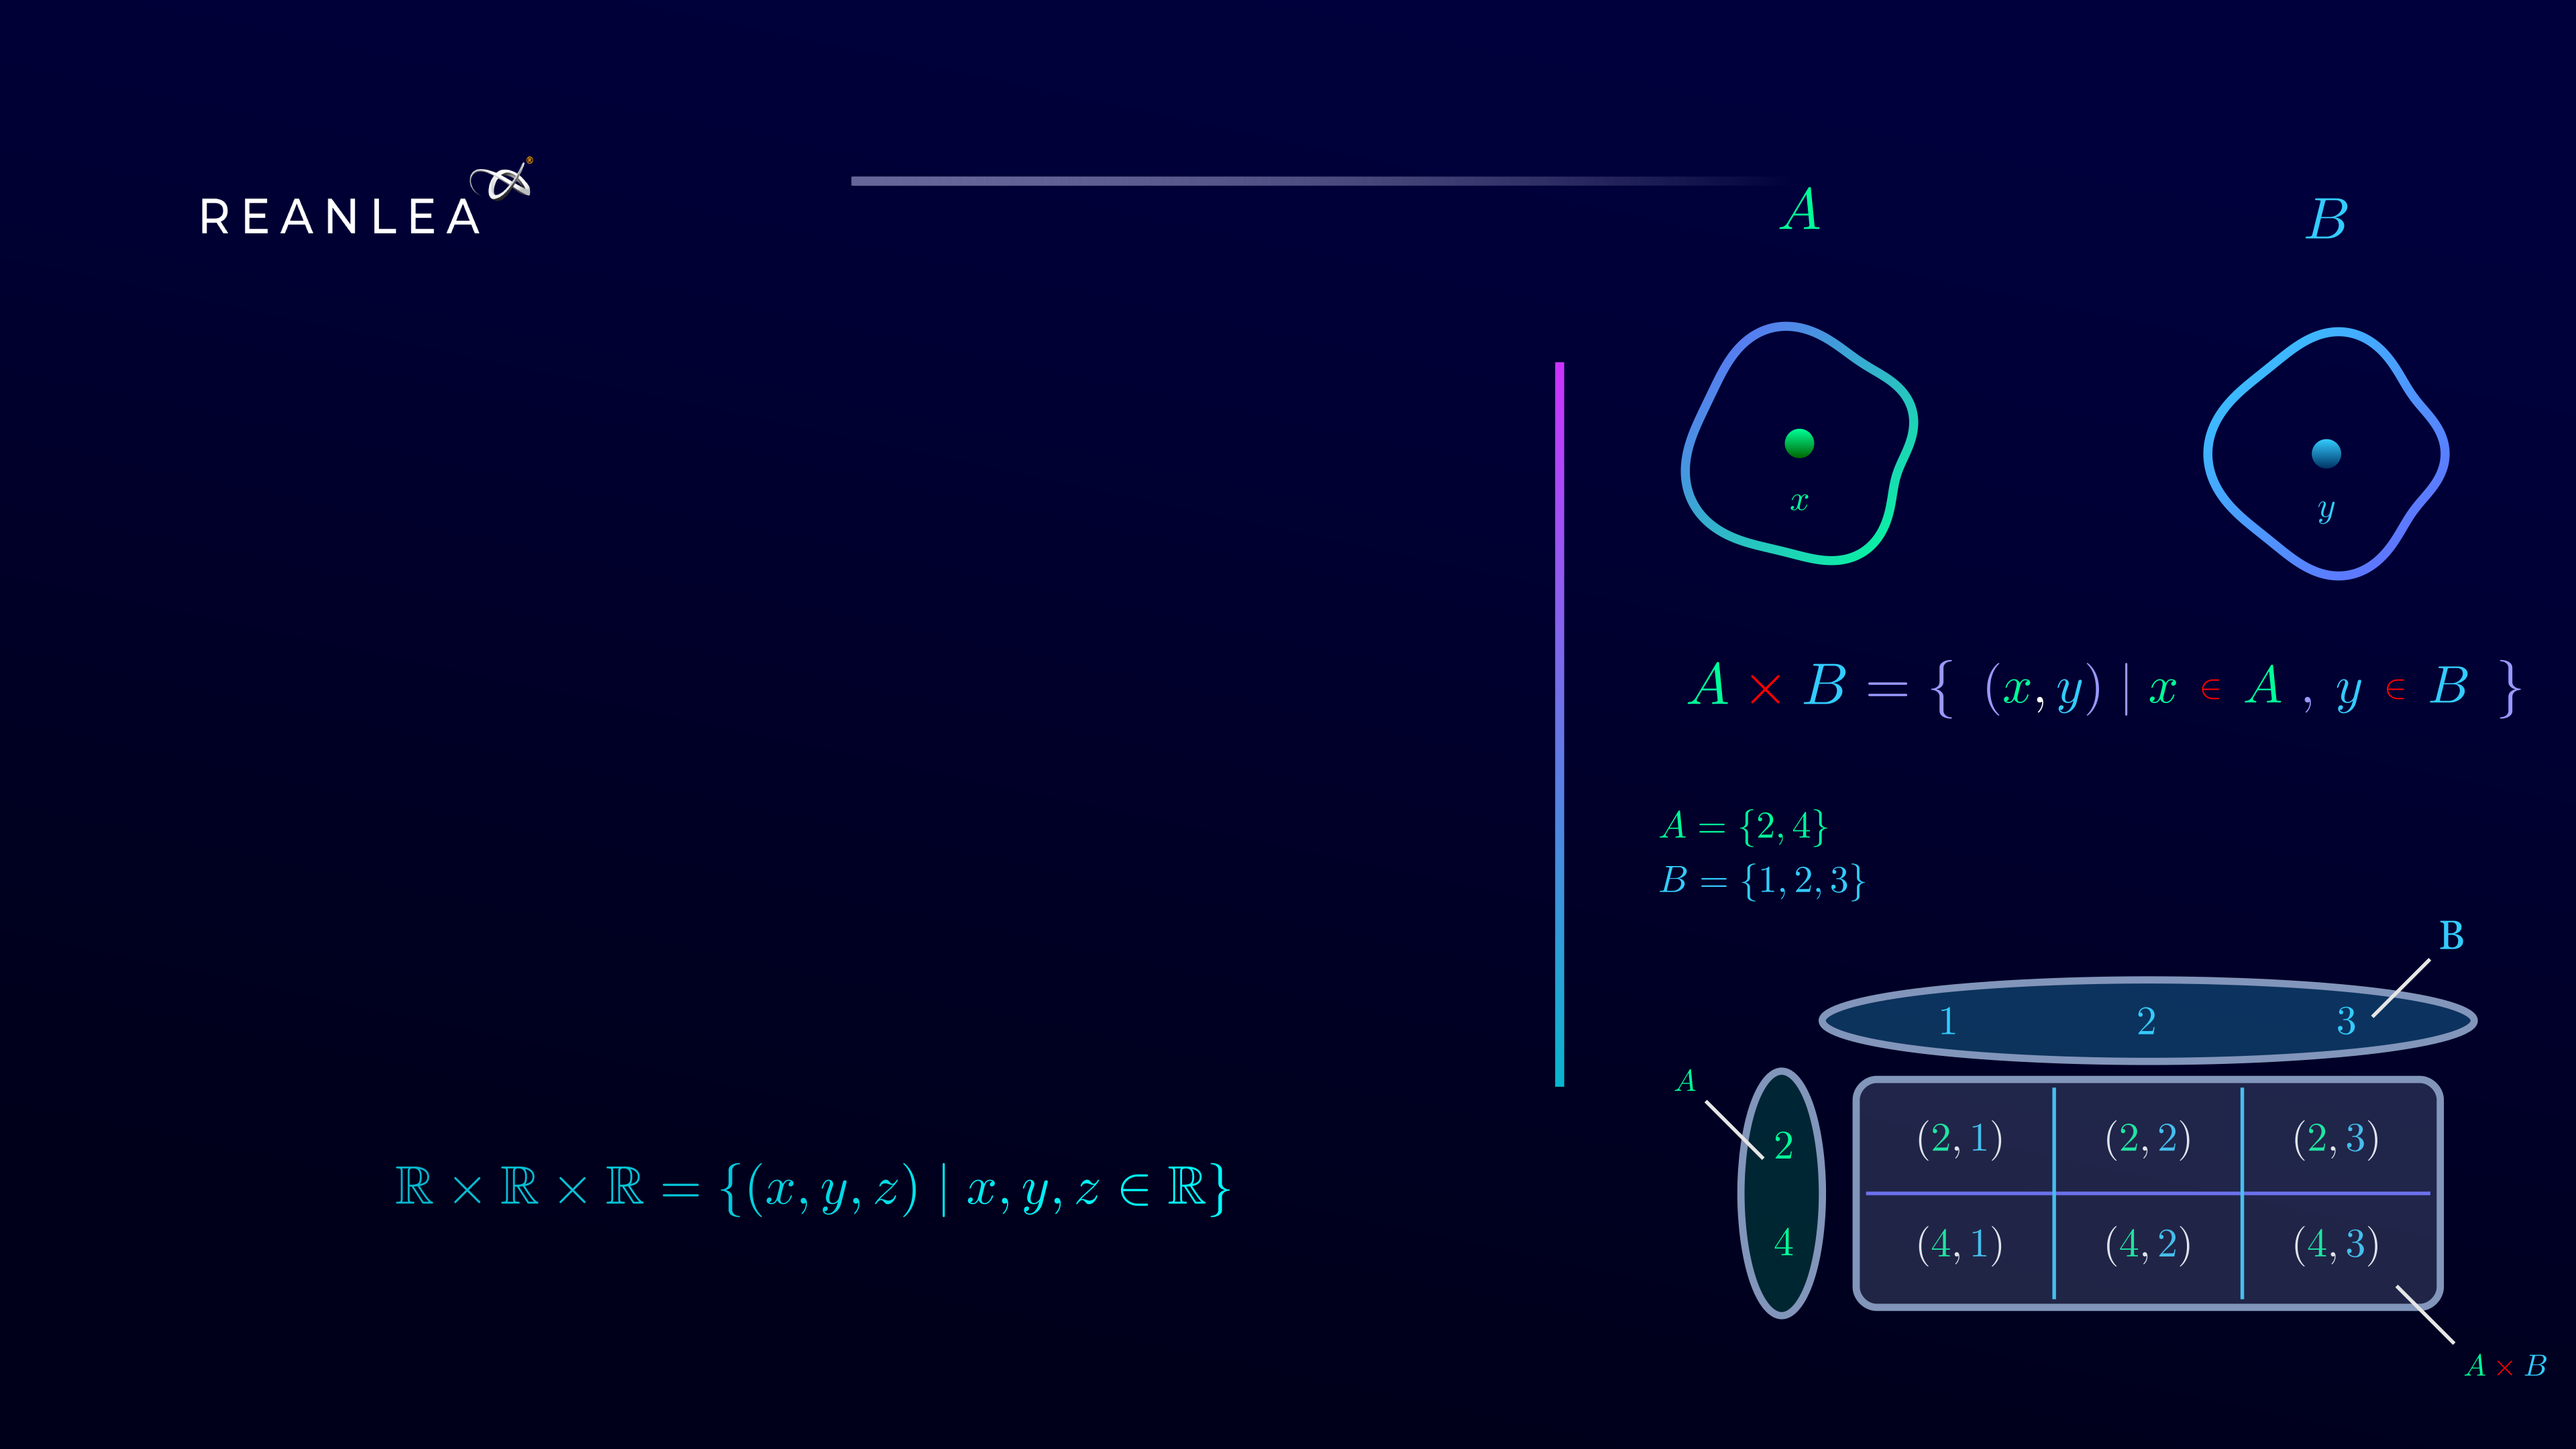
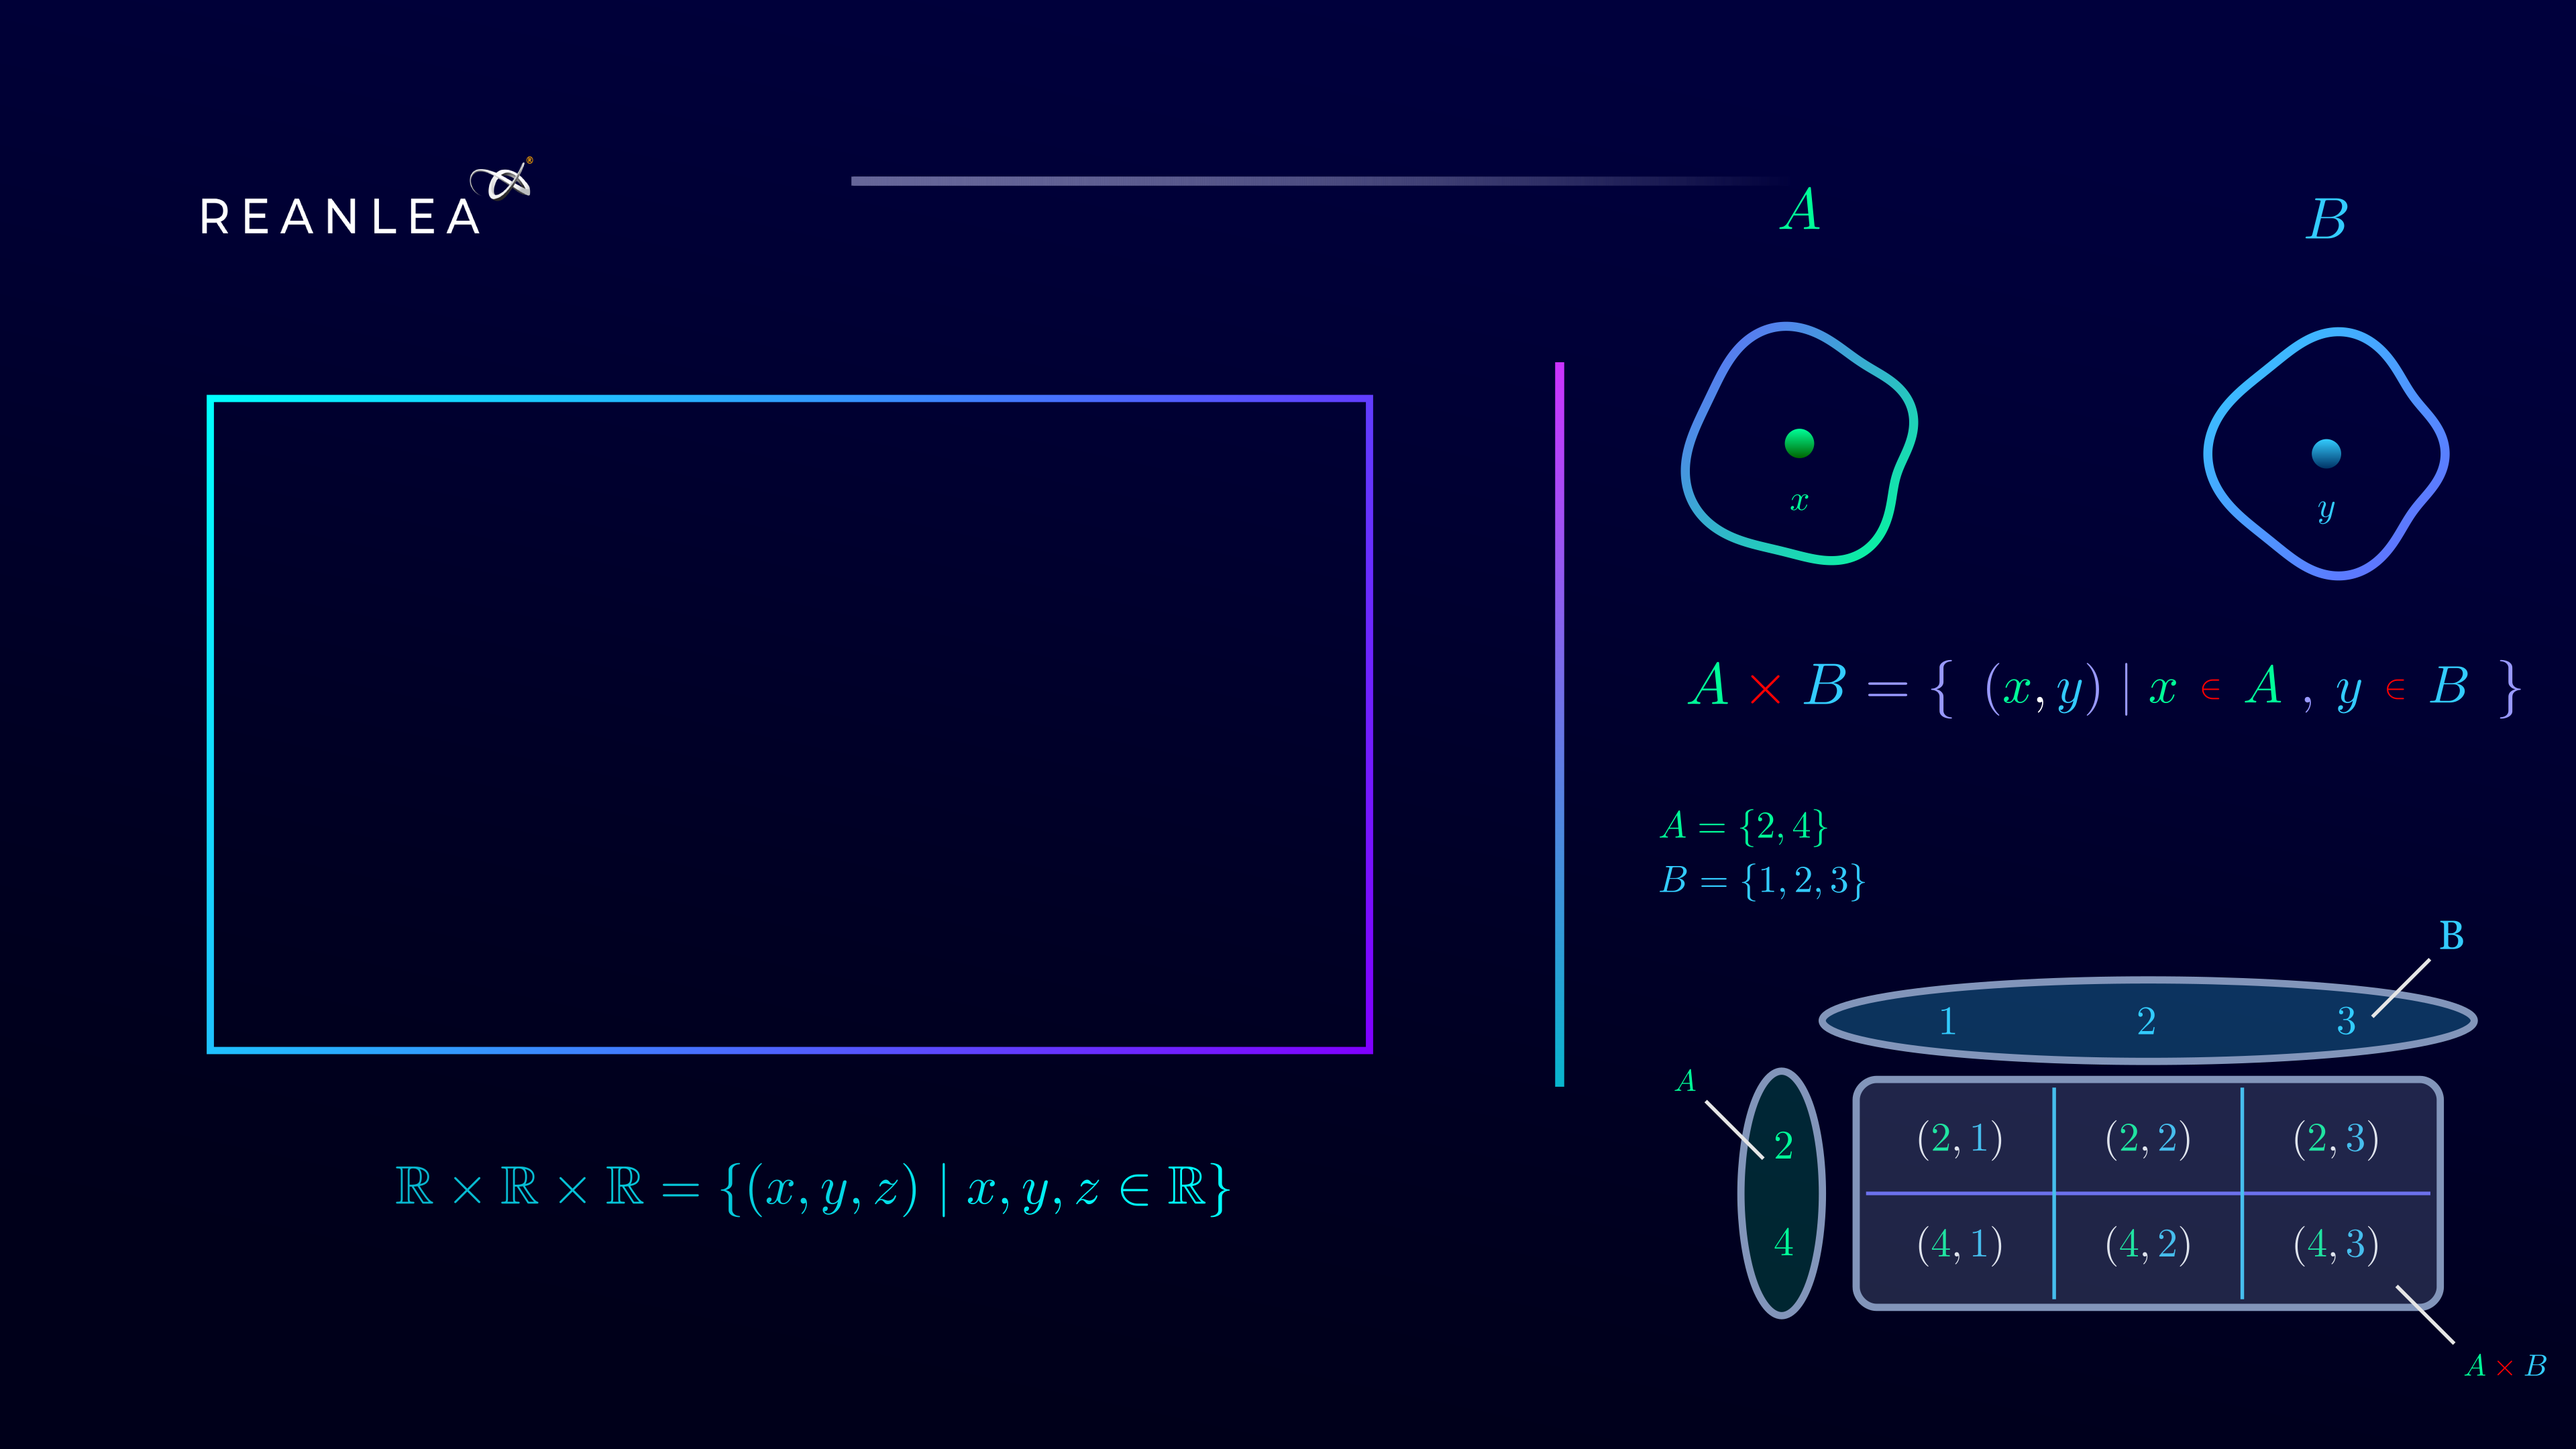
1

Changed region(s): [[0.0625, 0.7134, 0.5312, 0.7444], [0.0938, 0.2481, 0.5312, 0.2792]]

diff --git a/2022/Compact Matrix/banner.py b/2022/Compact Matrix/banner.py
@@ -961,13 +961,22 @@ class esp_ex_3_0(Scene):
         self.add(strp_1)
 
 
+        #BOX
+
+        rect=Rectangle(height=4.5, width=8).scale(.8).shift(2.75*LEFT).set_stroke(opacity=1, color=[REANLEA_VIOLET,REANLEA_AQUA])
+
+        self.play(
+            Create(rect)
+        )
+
+
 
     
     # manim -sqk banner.py esp_ex_3_0
 
-
+config.background_color="#00003c"
 class esp_ex_3_1(ThreeDScene):
-    def construct(self):
+    def construct(self):     
 
         #self.set_camera_orientation(phi=95 * DEGREES, theta=30 * DEGREES)
 
@@ -1062,15 +1071,7 @@ class esp_ex_3_1(ThreeDScene):
             run_time=2
         )
 
-        self.wait(3)
-
-        x_grp=VGroup(grp,ax_lbl).scale(.5)
-
-        self.wait(2)
-
-        
-
-
+        self.wait(3.5)
 
 
         # manim -sqk banner.py esp_ex_3_1

diff --git a/2022/Compact Matrix/reanlea_colors.py b/2022/Compact Matrix/reanlea_colors.py
@@ -165,6 +165,7 @@ REANLEA_PINK_HELIOTROPE ="#D966FF"
 
 REANLEA_BACKGROUND_COLOR="#00001a"
 REANLEA_BACKGROUND_COLOR_OXFORD_BLUE="#07142c"              #"#0b2149"
+REANLEA_BACKGROUND_COLOR_MIDNIGHT="#00003c"
 
 REANLEA_GREEN= "#00FF00"
 REANLEA_GREEN_LIGHTER = "#66ff66"
